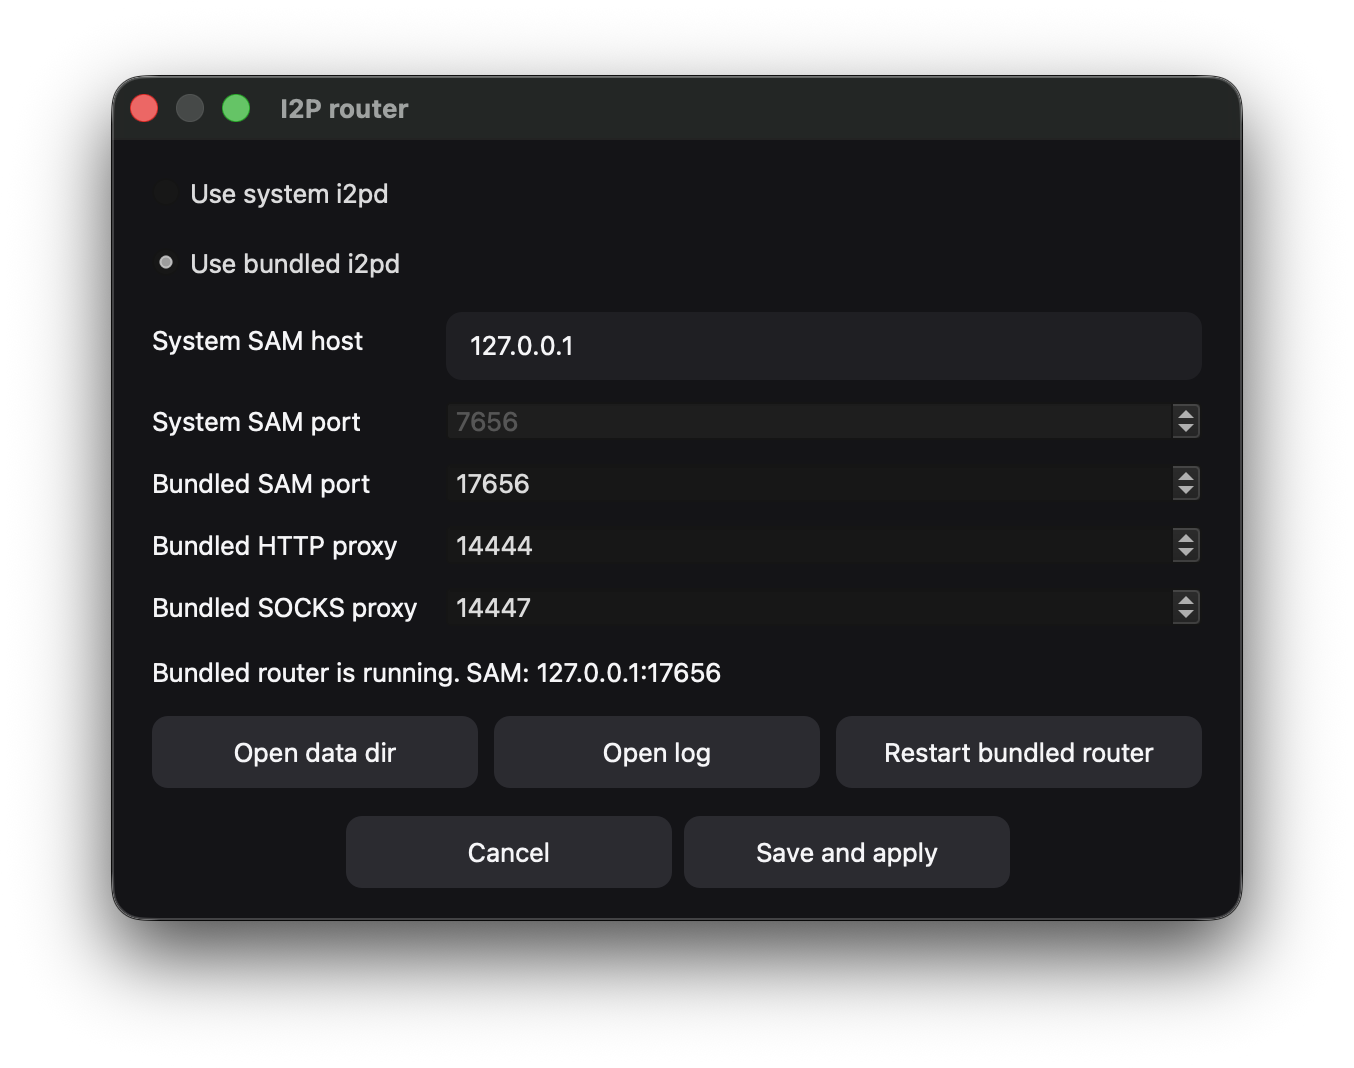
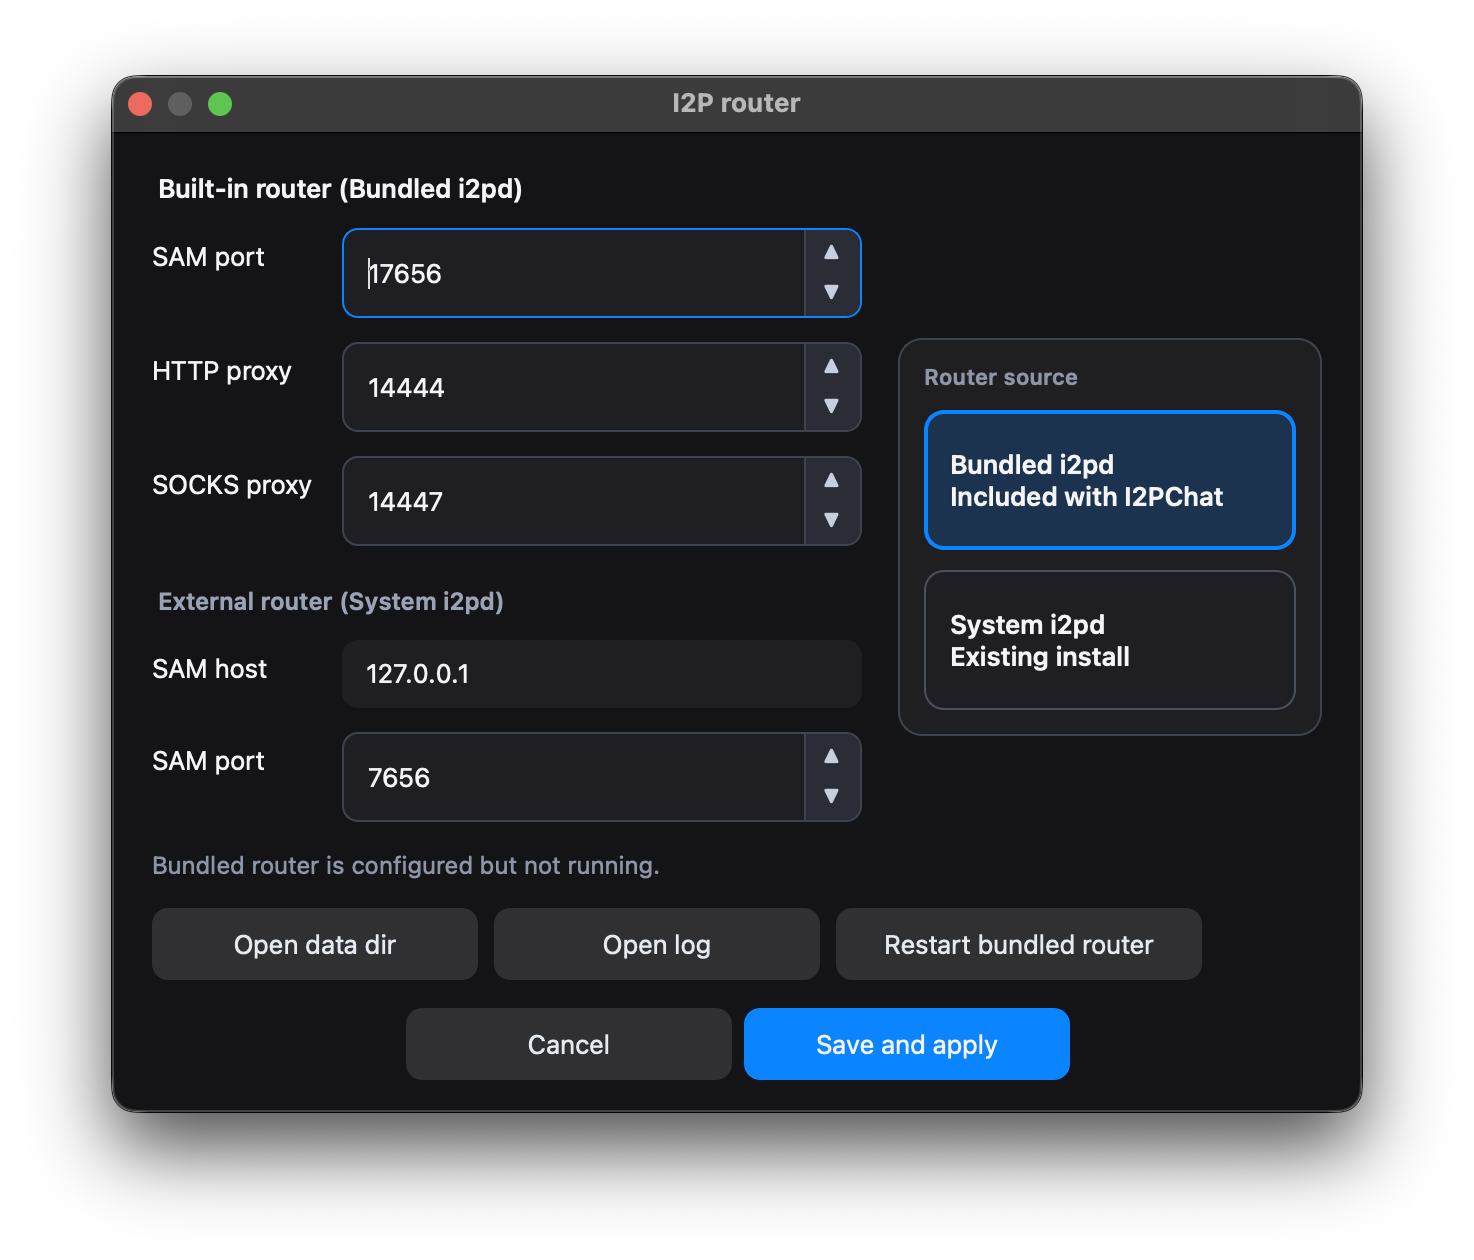
docs: BlindBox screenshots 6/9; README screenshot index
- MANUAL_EN/RU: clarify 6.png (diagnostics); add 9.png (Blind Box setup examples / install & curl)
- README: list 9.png in screenshot subset note
- Default router backend to bundled for fresh profiles; test missing prefs
- Update screenshots 6.png, 8.png; add screenshots/9.png

Made-with: Cursor

diff --git a/tests/test_router_settings.py b/tests/test_router_settings.py
@@ -28,6 +28,12 @@ class RouterSettingsTests(unittest.TestCase):
                 self.assertEqual(loaded.bundled_sam_port, 17657)
                 self.assertEqual(loaded.bundled_http_proxy_port, 14445)
 
+    def test_load_missing_prefs_defaults_to_bundled(self) -> None:
+        with tempfile.TemporaryDirectory() as td:
+            with mock.patch("i2pchat.router.settings.get_profiles_dir", return_value=td):
+                loaded = load_router_settings()
+                self.assertEqual(loaded.backend, "bundled")
+
     def test_runtime_dir_created(self) -> None:
         with tempfile.TemporaryDirectory() as td:
             with mock.patch("i2pchat.router.settings.get_profiles_dir", return_value=td):

diff --git a/i2pchat/router/settings.py b/i2pchat/router/settings.py
@@ -14,7 +14,7 @@ _ROUTER_SETTINGS_FILE = "router_prefs.json"
 
 @dataclass
 class RouterSettings:
-    backend: str = "system"  # "system" | "bundled"
+    backend: str = "bundled"  # "system" | "bundled"; default until router_prefs.json is saved from the UI
 
     system_sam_host: str = "127.0.0.1"
     system_sam_port: int = 7656

diff --git a/README.md b/README.md
@@ -234,7 +234,7 @@ Practical notes:
   <img src="screenshots/7.png" alt="I2PChat – chat and image preview" width="900" />
 </p>
 
-The gallery above is a short subset. **`screenshots/2.png`** (⋯ menu), **`3.png`** (profile picker), **`5.png`** (emoji picker), **`6.png`** (BlindBox diagnostics), and **`8.png`** (I2P router dialog) are documented inline in [**MANUAL_EN.md**](docs/MANUAL_EN.md) / [**MANUAL_RU.md**](docs/MANUAL_RU.md).
+The gallery above is a short subset. **`screenshots/2.png`** (⋯ menu), **`3.png`** (profile picker), **`5.png`** (emoji picker), **`6.png`** (BlindBox diagnostics), **`8.png`** (I2P router dialog), and **`9.png`** (Blind Box setup examples — `install.sh` / **Copy curl** for a custom replica) are documented inline in [**MANUAL_EN.md**](docs/MANUAL_EN.md) / [**MANUAL_RU.md**](docs/MANUAL_RU.md).
 
 ### 📦 Prebuilt binaries
 
@@ -436,7 +436,7 @@ If you like this project and want to support development, you can send a small d
 | **macOS** | [I2PChat-macOS-arm64-v1.2.0.zip](https://github.com/MetanoicArmor/I2PChat/releases/latest/download/I2PChat-macOS-arm64-v1.2.0.zip) | Unzip → open `I2PChat.app` |
 | **Linux** | [I2PChat-linux-x86_64-v1.2.0.zip](https://github.com/MetanoicArmor/I2PChat/releases/latest/download/I2PChat-linux-x86_64-v1.2.0.zip) | Unzip → `chmod +x I2PChat.AppImage` → run |
 
-> **Router backend:** I2PChat can work with either a system `i2pd` (SAM, default `127.0.0.1:7656`) or a bundled `i2pd` sidecar. Use **More actions → I2P router…** (shortcut **Cmd/Ctrl+R**) to choose which backend to use, open the router data/log paths, or restart the bundled router.
+> **Router backend:** On a **fresh profile** (no saved preference), I2PChat defaults to the **bundled** `i2pd` sidecar. You can switch to a system `i2pd` (SAM, typically `127.0.0.1:7656`) via **More actions → I2P router…** (shortcut **Cmd/Ctrl+R**); that choice is persisted. The same dialog opens the router data/log paths and can restart the bundled router.
 
 ### ℹ About
 

diff --git a/docs/MANUAL_RU.md b/docs/MANUAL_RU.md
@@ -350,9 +350,13 @@
 - Состояние видно в **строке статуса** (поля `Send:*` и BlindBox); при наведении — подсказки, если что-то не настроено.
 - **Совместимость:** у пиров на старых сборках BlindBox может не поддерживаться; обычный чат, файлы и картинки работают как раньше.
 
-Пример окна **BlindBox diagnostics** (**⋯ → BlindBox diagnostics**):
+Пример окна **BlindBox diagnostics** (**⋯ → BlindBox diagnostics**): сводка телеметрии, список endpoint’ов реплик (если можно править), опциональная **replica auth**, кнопки **Example server…** и **Save and restart**.
 
-<img src="../screenshots/6.png" alt="BlindBox diagnostics: текстовая сводка офлайн-маршрута и реплик" width="900" />
+<img src="../screenshots/6.png" alt="Окно BlindBox diagnostics: сводка, реплики, auth, Example server и Save and restart" width="900" />
+
+Окно **Blind Box setup examples** (**BlindBox diagnostics → Example server…**): вкладки с текстами (в т.ч. **`install.sh`** и **I2pd**), кнопки **Get install** (сохранить скрипт) и **Copy curl** (однострочник для сервера) для своей реплики.
+
+<img src="../screenshots/9.png" alt="Blind Box setup examples: вкладка install.sh, Get install и Copy curl для кастомной реплики" width="900" />
 
 #### 4.10. Действие `Forget pinned peer key` (меню `⋯`)
 

diff --git a/docs/MANUAL_EN.md b/docs/MANUAL_EN.md
@@ -350,9 +350,13 @@ Using this button you can:
 - Runtime state appears in the **status row** (`Send:*` and BlindBox fields); hover for hints if something is misconfigured.
 - **Compatibility:** peers on older builds may not support BlindBox traffic; live chat and file/image transfer work as before.
 
-Example **BlindBox diagnostics** window (**⋯ → BlindBox diagnostics**):
+Example **BlindBox diagnostics** window (**⋯ → BlindBox diagnostics**): telemetry summary, editable replica endpoints (when allowed), per-replica auth, and **Example server…** / **Save and restart**.
 
-<img src="../screenshots/6.png" alt="BlindBox diagnostics: textual summary of offline routing and replicas" width="900" />
+<img src="../screenshots/6.png" alt="BlindBox diagnostics window: summary text, replica endpoints, auth block, Example server and Save and restart" width="900" />
+
+**Blind Box setup examples** (**BlindBox diagnostics → Example server…**): tabbed notes and sources (e.g. **`install.sh`** / **I2pd**), plus **Get install** (save the script) and **Copy curl** (one-liner to fetch and run it on a server) for rolling your own replica.
+
+<img src="../screenshots/9.png" alt="Blind Box setup examples: install.sh tab, Get install and Copy curl for custom replica deployment" width="900" />
 
 #### 4.10. `Forget pinned peer key` action (`⋯` menu)
 
